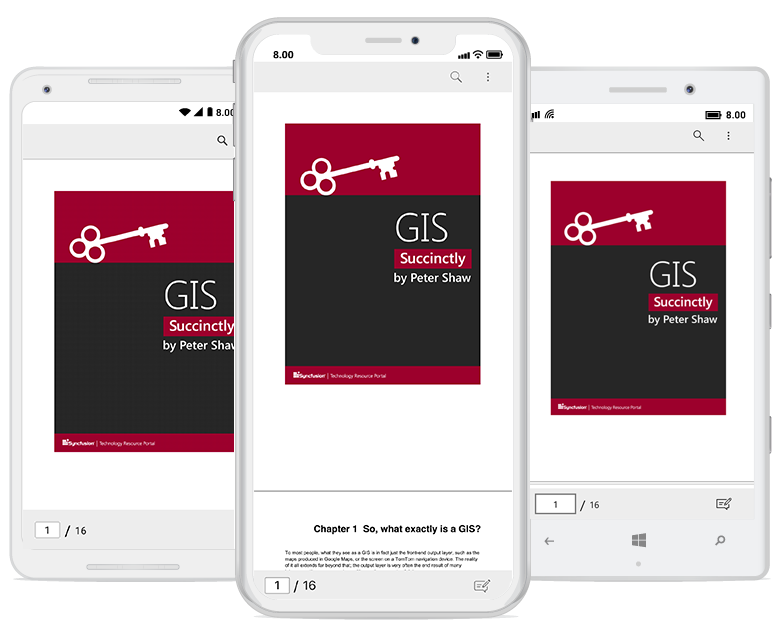
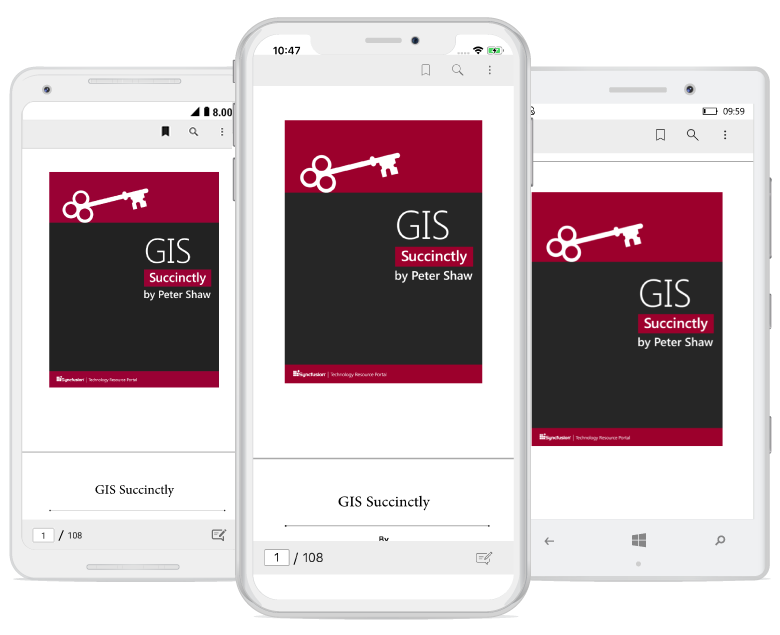
Support for bookmark navigation in SfPdfViewer UG updated for Xamarin.Forms

diff --git a/xamarin-toc.html b/xamarin-toc.html
@@ -562,6 +562,7 @@
 		<li><a href="/xamarin/sfpdfviewer/Shape-Annotation">Shape annotations</a></li>
 		<li><a href="/xamarin/sfpdfviewer/FreeText-Annotation">Free text annotations</a></li>
 		<li><a href="/xamarin/sfpdfviewer/Textmarkup">Review PDF documents</a></li>
+		<li><a href="/xamarin/sfpdfviewer/Bookmark-Navigation">Bookmark Navigation</a></li>
 		</ul>
 	</li>
     <li>

diff --git a/Xamarin/SfPdfViewer/Bookmark-navigation.md b/Xamarin/SfPdfViewer/Bookmark-navigation.md
@@ -1,0 +1,138 @@
+---
+layout: post
+title:  Bookmark Navigation
+description: Bookmark Navigation
+platform: Xamarin
+control: SfPdfViewer
+documentation: ug
+---
+
+# Working with Bookmark Navigation
+
+PDF viewer allows users to view the bookmarks present in the loaded PDF document and navigate to the destination saved in the bookmarks. 
+
+## Enabling and disabling bookmark feature
+
+You can enable and disable the bookmark button from the built-in toolbar using the `BookmarkNavigationEnabled` property available in PDF viewer.
+
+<table>
+
+<tr>
+<th>Property</th>
+<th>Action</th>
+</tr>
+
+<tr>
+<td>BookmarkNavigationEnabled</td>
+<td>Gets or sets the value that enable and disable the bookmark feature in PDF viewer. By default, this property is set to true.</td>
+</tr>
+
+</table>
+
+This property removes the bookmark button from the built-in toolbar and disable the bookmark feature, when it is set to false and vice versa.
+
+{% tabs %}
+{% highlight xaml %}
+
+<pdfviewer:SfPdfViewer x:Name="pdfViewerControl" BookmarkNavigationEnabled="False"/>               
+
+{% endhighlight %}
+{% endtabs %}
+
+{% tabs %}
+{% highlight c# %}
+
+//Bookmark feature is disabled
+pdfViewerControl. BookmarkNavigationEnabled = false;             
+
+{% endhighlight %}
+{% endtabs %}
+
+## Expand and collapse the bookmark pane from built-in toolbar
+
+The bookmark pane is expanded and collapsed by clicking the bookmark button from the built-in toolbar.
+
+![](pdfviewer_images/BookmarkButton.png)
+
+## Expand and collapse the bookmark pane programmatically
+
+The bookmark pane is expanded and collapsed programmatically by using the `BookmarkPaneVisible` bindable property available in PDF viewer.
+
+<table>
+
+<tr>
+<th>Property</th>
+<th>Action</th>
+</tr>
+
+<tr>
+<td>BookmarkPaneVisible</td>
+<td>Gets or sets the value to expand and collapse the bookmark pane in PDF viewer. Setting this property to true expands the pane and vice versa. By default, this property is set to true.</td>
+</tr>
+
+</table>
+
+{% tabs %}
+{% highlight xaml %}
+
+<pdfviewer:SfPdfViewer x:Name="pdfViewerControl" BookmarkPaneVisible="False"/>     
+
+{% endhighlight %}
+{% endtabs %}
+
+
+{% tabs %}
+{% highlight c# %}
+
+//Bookmark pane will be collapsed, if it is expanded
+pdfViewerControl.BookmarkPaneVisible = true;
+
+{% endhighlight %}
+{% endtabs %}
+
+## Programmatically navigate to a bookmark destination
+
+You can navigate to a desired bookmark destination using the `GotoBookmark(PdfBookmark)` method. The target/destination bookmark should be provided as the argument to this method. Refer to the following code sample.
+
+{% tabs %}
+{% highlight c# %}
+
+//Loads the PDF document in PdfLoadedDocument
+PdfLoadedDocument ldoc = new PdfLoadedDocument(documentStream);
+
+//Retrieves the bookmark collection from the loaded PDF document
+PdfBookmarkBase bookmark = ldoc.Bookmarks;
+
+//Navigate to the specified bookmark destination offset
+pdfViewerControl.GoToBookmark(bookmark[0]);
+
+{% endhighlight %}
+{% endtabs %}
+
+## Track the occurrence of the bookmark navigation
+
+You can track the bookmark navigation operation using the `BookmarkNavigationOccurred` event. The argument of this event will provide the instance of the bookmark, destination page number, and vertical offset. Refer to the following code example.
+
+{% tabs %}
+{% highlight c# %}
+
+pdfViewerControl.BookmarkNavigationOccurred += PdfViewerControl_BookmarkNavigationOccurred;
+
+
+private void PdfViewerControl_BookmarkNavigationOccurred(object sender, Syncfusion.SfPdfViewer.XForms.BookmarkNavigationOccurredEventArgs e)
+{
+      //Retrieves the current bookmark
+      PdfBookmark bookmark = e.Bookmark;
+
+      //Gets the vertical offset of the bookmark
+      double destinationOffset = e.Offset;
+
+      //Gets the current page number in which the bookmark destination resides
+      int pageNumber = e.PageNumber;
+
+}
+
+{% endhighlight %}
+{% endtabs %}
+
+![](pdfviewer_images/bookmark.png)
